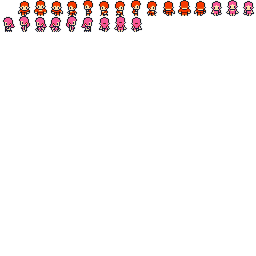
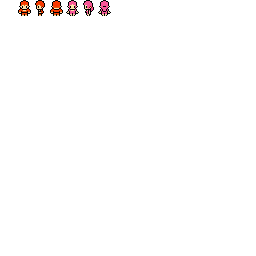
Add switch between male & female

Changed region(s): [[0.0, 0.0, 1.0, 0.125]]

diff --git a/Astralis/Scenes/Screens/CharacterCreationScreen.cs b/Astralis/Scenes/Screens/CharacterCreationScreen.cs
@@ -17,18 +17,31 @@ namespace Astralis.Scenes.Screens
 
         private ScreenSurface _characterBorderScreen, _characterView;
         private TextBox _name;
-        private ScrollBar _gender, _race, _skinColor, _hair, _shirt, _pants, _shoes;
+        private ComboBox _gender;
+        private ScrollBar _race, _skinColor, _hair, _shirt, _pants, _shoes;
 
         public CharacterCreationScreen(Action<object, WorldScreen> startGameMethod) : 
             base((int)(Constants.ScreenWidth / 100f * 35), 
                 (int)(Constants.ScreenHeight / 100f * 50))
         {
             _characterBorderScreen = new ScreenSurface(18, 18);
+            for (int x=0; x < _characterBorderScreen.Width; x++)
+            {
+                for (int y = 0; y < _characterBorderScreen.Height; y++)
+                {
+                    if (x == 0 || y == 0 || x == _characterBorderScreen.Width - 1 || y == _characterBorderScreen.Height - 1)
+                        continue;
+                    _characterBorderScreen.Surface[x, y].Background = Color.Lerp(Color.Black, Color.Gray, 0.1f);
+                }
+            }
             _characterBorderScreen.Surface.DrawBox(new Rectangle(0, 0, _characterBorderScreen.Width, _characterBorderScreen.Height), ShapeParameters.CreateStyledBox(ICellSurface.ConnectedLineThick, new ColoredGlyph(Color.Green, Color.Transparent)));
 
             _characterBorderScreen.Position = new Point((int)(Width / 100f * 54), (int)(Height / 100f * 33));
             Children.Add(_characterBorderScreen);
 
+            // Use 1,1 screen with font 16x16
+            // Then to render the 1,1 cell in 16x16 space
+            // We do 16font * 16cells = 256
             _characterView = new ScreenSurface(1, 1)
             {
                 Font = Game.Instance.Fonts[Constants.Fonts.NpcFonts.PlayerNpc],
@@ -37,7 +50,7 @@ namespace Astralis.Scenes.Screens
                 Position = new Point(16, 15)
             };
             _characterView.Surface.DefaultBackground = Color.Transparent;
-            _characterView.Surface[0].Glyph = 2;
+            _characterView.Surface[0].Glyph = 1;
             _characterBorderScreen.Children.Add(_characterView);
 
             _startGameMethod = startGameMethod;
@@ -94,7 +107,8 @@ namespace Astralis.Scenes.Screens
         {
             var currentPosition = new Point((int)(Width / 100f * 9), _characterBorderScreen.Position.Y -2);
             _name = AddTextBox("Name:", currentPosition);
-            _gender = AddScrollBar("Gender:", currentPosition += new Point(0, 3));
+            _gender = AddComboBox("Gender:", currentPosition += new Point(0, 3), new [] {"Male", "Female"});
+            _gender.SelectedItemChanged += ChangeGender;
             _race = AddScrollBar("Race:", currentPosition += new Point(0, 3));
             _skinColor = AddScrollBar("Skin color:", currentPosition += new Point(0, 3));
             _hair = AddScrollBar("Hair:", currentPosition += new Point(0, 3));
@@ -121,6 +135,13 @@ namespace Astralis.Scenes.Screens
             Controls.Add(continueButton);
         }
 
+        private void ChangeGender(object sender, ListBox.SelectedItemEventArgs e)
+        {
+            var item = ((string)e.Item);
+            _characterView.Surface[0].Glyph = item.Equals("Male", StringComparison.OrdinalIgnoreCase) ? 1 : 4;
+            _characterView.Surface.IsDirty = true;
+        }
+
         private void ClickContinue(object sender, EventArgs e)
         {
             var name = _name.Text;
@@ -135,6 +156,18 @@ namespace Astralis.Scenes.Screens
         private void ClickRandomize(object sender, EventArgs e)
         {
 
+        }
+
+        private ComboBox AddComboBox(string labelText, Point position, string[] values)
+        {
+            var label = new Label(labelText) { Position = position + Direction.Up };
+            SetLabelTheme(label);
+            Controls.Add(label);
+
+            var comboBox = new ComboBox(15, 15, 2, values) { Position = position };
+            Controls.Add(comboBox);
+
+            return comboBox;
         }
 
         private TextBox AddTextBox(string labelText, Point position)
